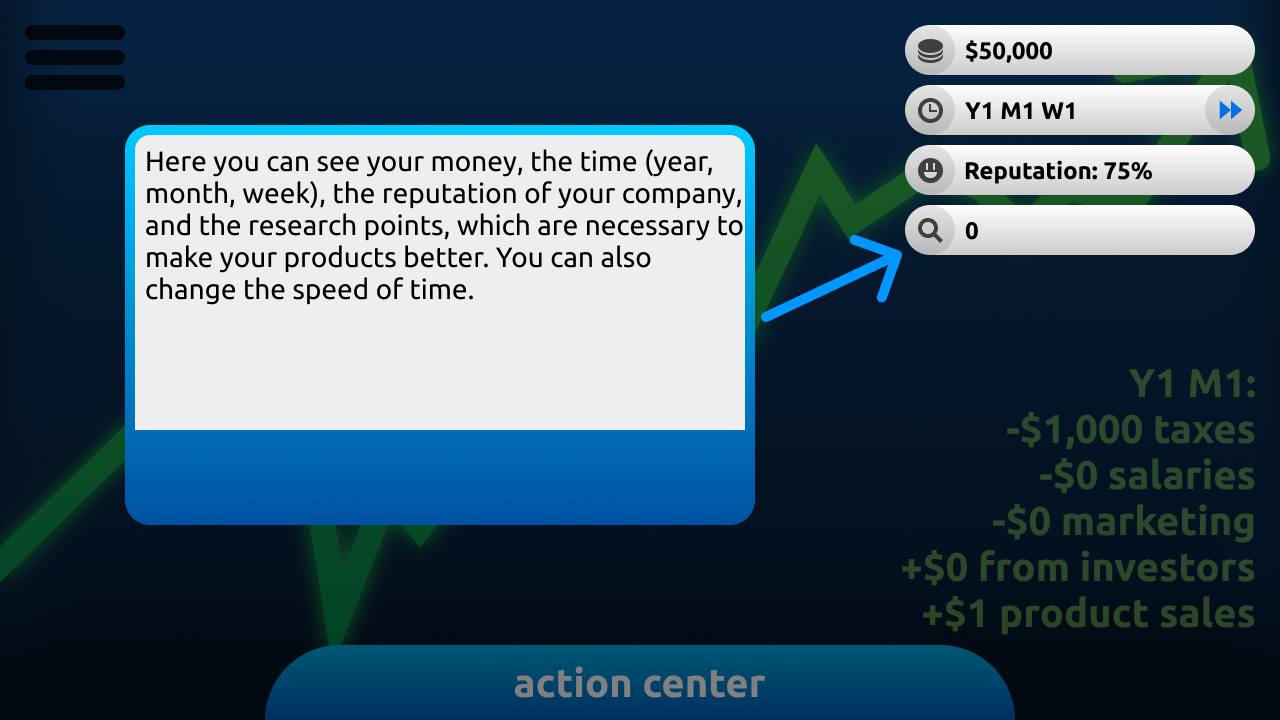
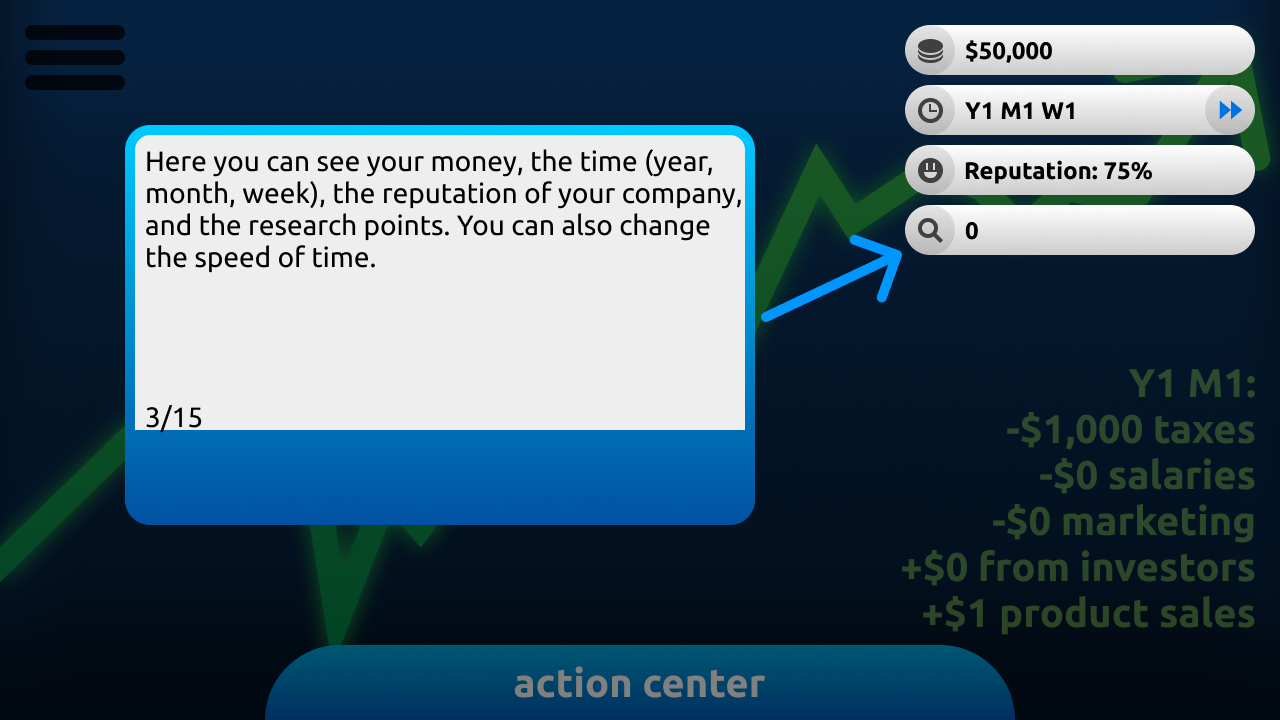
new tutorial omg omg omg

Changed region(s): [[0.0938, 0.3056, 0.5938, 0.4278], [0.125, 0.55, 0.1562, 0.6111]]

diff --git a/Scripts/UI/Tutorial/Next.cs b/Scripts/UI/Tutorial/Next.cs
@@ -9,7 +9,7 @@ public class Next : TextureButton {
     public void Click() {
         Global.TutorialImage += 1;
         switch (Global.TutorialImage) {
-            case 6:
+            case 16:
                 File fart = new File();
                 fart.Open("user://first_time", File.ModeFlags.Write);
                 fart.StoreString("aeiou");
@@ -17,7 +17,7 @@ public class Next : TextureButton {
                 GetParent().GetParent().QueueFree();
                 break;
             default:
-                if (Global.TutorialImage != 5) {
+                if (Global.TutorialImage != 15) {
                     GetNode<Label>("./Label").Text = "Next";
                     GetNode<Label>("../Back/Label").Text = "Back";
                     Sprite coolImage = GetNode<Sprite>("../../AwesomeImage");
